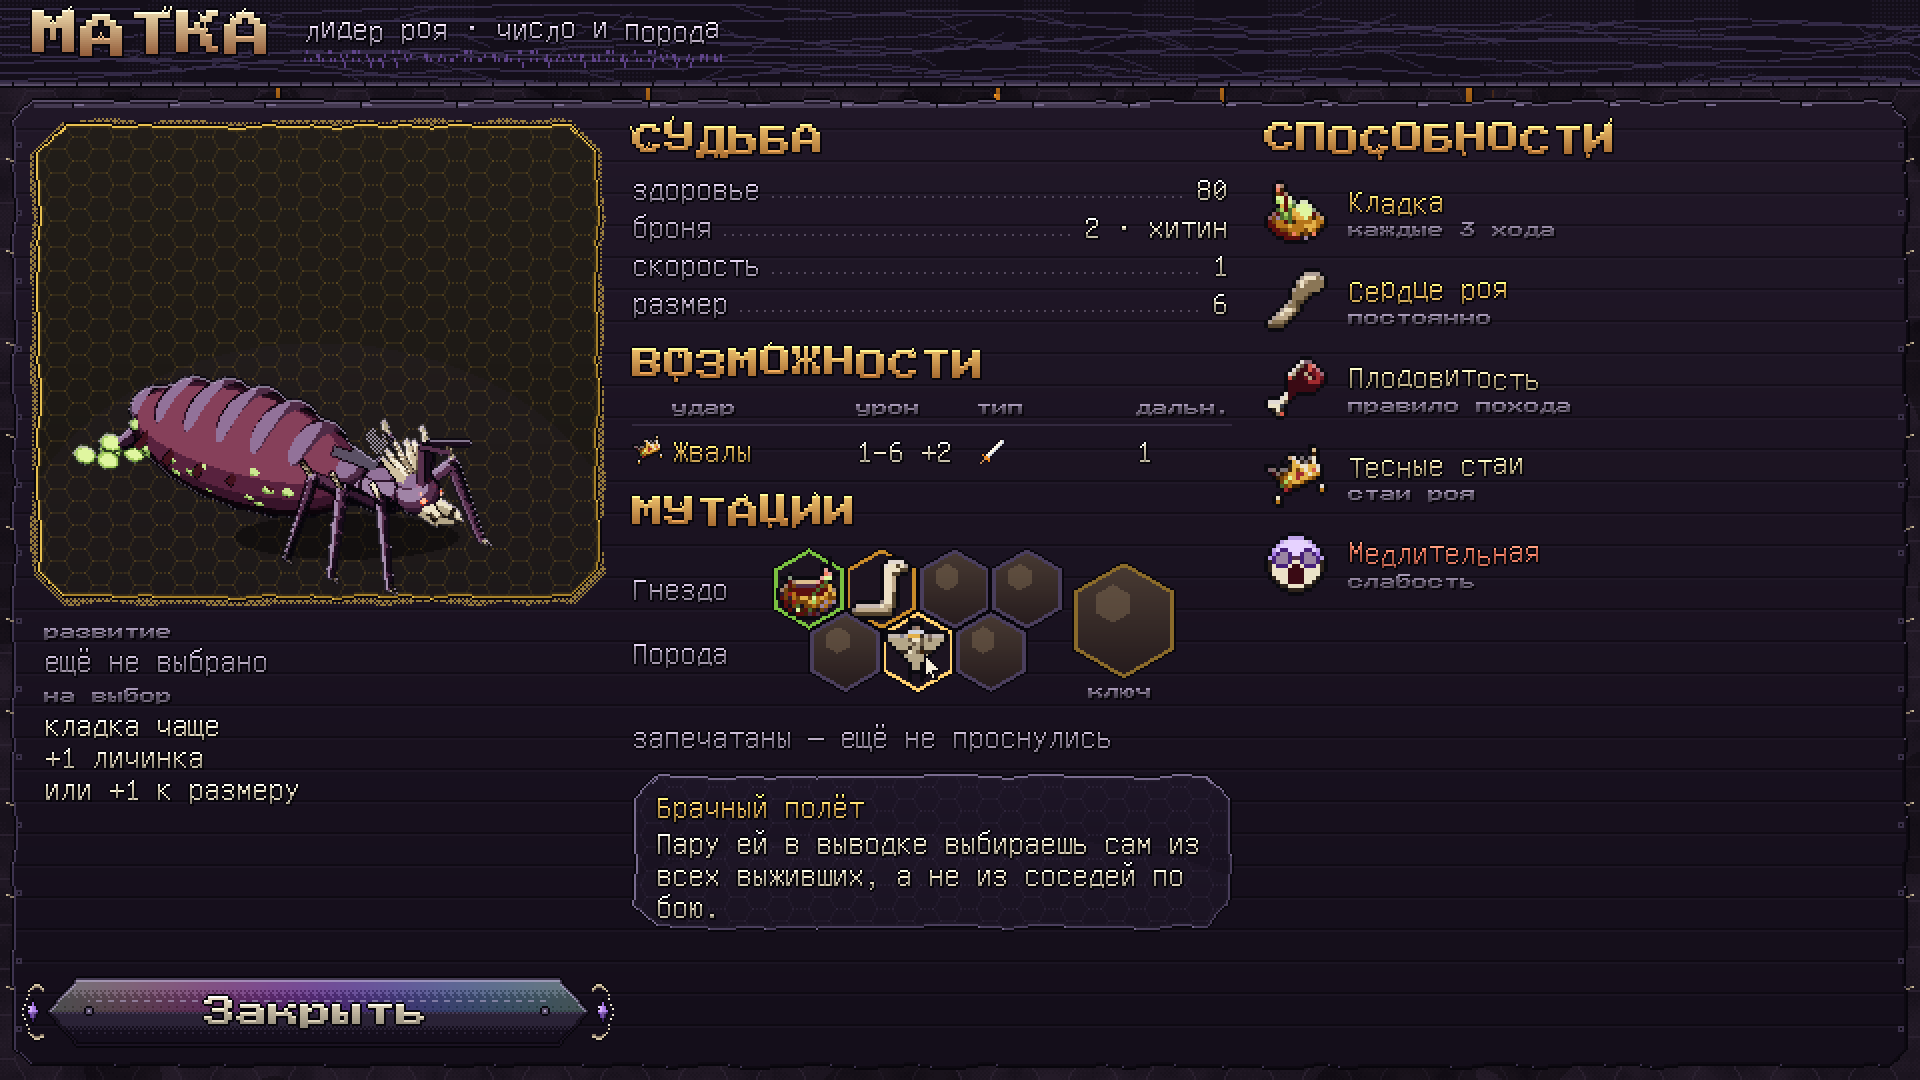
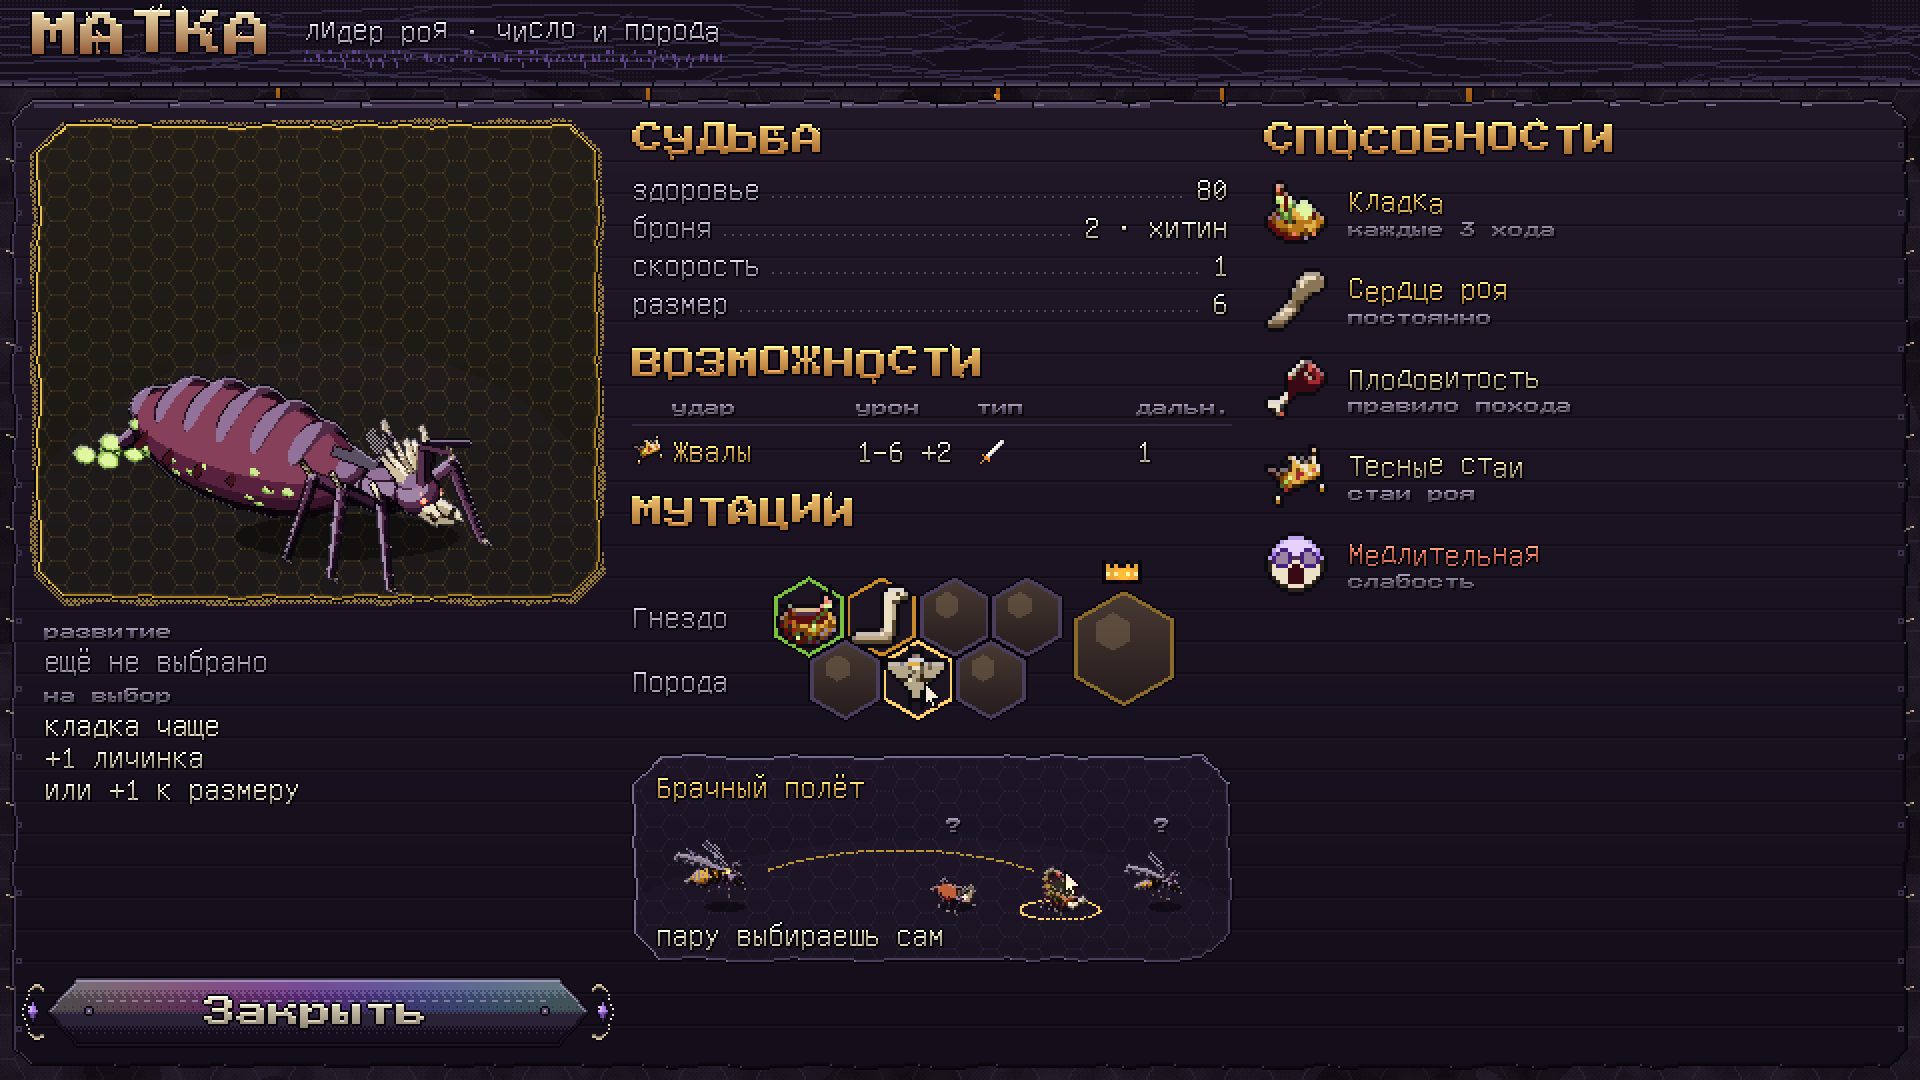
Мутации лидера в карточке: меньше текста — корона над ключевой сотой, подсказка картинкой и одной строкой
Claude-Session: https://claude.ai/code/session_01Bh6a99SKMjjKSinDnrtssC

diff --git a/tools/sprites/swarm_hud.py b/tools/sprites/swarm_hud.py
@@ -923,6 +923,39 @@ def comb_cell(sc, cx, cy, r, state, key=None):
         icon(sc, key, cx - 16, cy - 16, 2)
 
 
+def crown(sc, cx, top):
+    """A small crown over the royal cell: the key mutation."""
+    rows = ["o..o..o..o", "oAoAooAoAo", "oAAAAAAAAo", "oaAaAAaAao", "oAAAAAAAAo", "oooooooooo"]
+    col = dict(o=UI.OUTL, A=hexc("#e8a838"), a=hexc("#fff0a0"))
+    z = 2
+    for j, row in enumerate(rows):
+        for i, ch in enumerate(row):
+            if ch != ".":
+                yy, xx = int(top) + j * z, int(cx) - 5 * z + i * z
+                sc.rgb[yy:yy + z, xx:xx + z] = col[ch]
+    sc.glow(cx, top + 6, 16, hexc("#f0c050"), 0.35)
+
+
+def pict_flight(sc, x0, y, x1):
+    """Брачный полёт, without words: she, a thread, three of the survivors — the player's cursor on one of them."""
+    me = bug(("wings",), "idle", 1.3, 41, rare="flight")
+    put(sc, me, x0 + 34, y + 40, 10)
+    cands = [(("horn",), 42), (("stinger",), 43), (("wings",), 44)]
+    xs = [x0 + 150 + i * 52 for i in range(3)]
+    sc.glow(xs[1], y + 32, 26, hexc("#ffd070"), 0.35)
+    for t in np.linspace(0, 2 * np.pi, 80):                # the chosen one, ringed
+        sc.rgb[int(y + 42 + np.sin(t) * 5), int(xs[1] + np.cos(t) * 20)] = hexc("#ffd070")
+    UI.silk(sc, (x0 + 56, y + 22), (xs[1] - 14, y + 22), sag=-10, col="#f0c040")
+    for i, ((tr, sd), cx) in enumerate(zip(cands, xs)):
+        put(sc, bug(tr, "idle", 1.0, sd), cx, y + 40, 8)
+    letters(sc, "?", xs[0], y - 4, "title", 8, col=PALE, outline=False, align="center")
+    letters(sc, "?", xs[2], y - 4, "title", 8, col=PALE, outline=False, align="center")
+    cursor(sc, int(xs[1]) + 2, int(y) + 22)
+
+
+PICT = {"Брачный полёт": (pict_flight, "пару выбираешь сам")}
+
+
 def leader_comb(sc, x0, y, rows, key, hover):
     """The leader's mutations as a comb: a row of cells per branch, the key one a big royal cell at the end."""
     r, step = 21, 21 * 1.732
@@ -938,7 +971,7 @@ def leader_comb(sc, x0, y, rows, key, hover):
     kx, ky = x0 + 88 + 4 * step + 12, y + r * 0.75
     sc.glow(kx, ky, 40, hexc("#f0c050"), 0.25)
     comb_cell(sc, kx, ky, 30, st, k_)
-    letters(sc, "ключ", kx, ky + 32, "title", 8, col=PALE, outline=False, align="center")
+    crown(sc, kx, ky - 30 - 13)
     pos[nm] = (kx, ky, nm, desc)
     return pos, y + r * 1.5 * (len(rows) - 1) + 34
 
@@ -1009,16 +1042,14 @@ def big_card(spec, name):
         rows, key, hover = spec["comb"]
         y += 10
         heading(sc, "МУТАЦИИ", x0, y, seed=6)
-        pos, yb = leader_comb(sc, x0, y + 46, rows, key, hover)
-        letters(sc, "запечатаны — ещё не проснулись", x0, yb, "text", 16, col=MUTED)
-        yb += 22
+        pos, yb = leader_comb(sc, x0, y + 60, rows, key, hover)
         cx, cy, nm, desc = pos[hover]
-        lines = wrap(desc, x1 - x0 - 28)
-        ty0 = int(yb + 6)
-        UI.cell(sc, x0, ty0, x1, ty0 + 30 + len(lines) * 16, "normal")
+        draw_pict, line = PICT[nm]
+        ty0 = int(yb + 4)
+        UI.cell(sc, x0, ty0, x1, ty0 + 104, "normal")
         letters(sc, nm, x0 + 12, ty0 + 8, "text", 16, col=GOLD)
-        for j, ln in enumerate(lines):
-            UI.rich(sc, ln, x0 + 12, ty0 + 26 + j * 16, "text", 16, col=INK)
+        draw_pict(sc, x0 + 12, ty0 + 36, x1 - 12)
+        UI.rich(sc, line, x0 + 12, ty0 + 82, "text", 16, col=INK)
         cursor(sc, int(cx) + 4, int(cy) + 2)
     # under the attacks: what it hands down — icons in a column
     if spec.get("below"):
